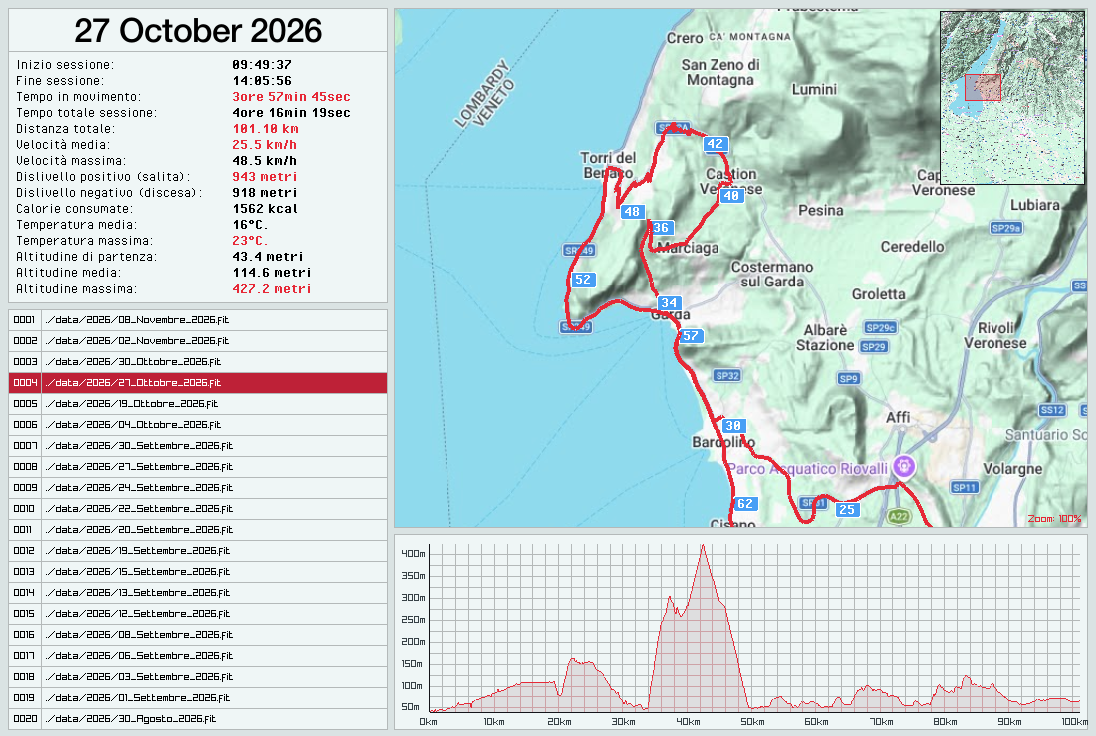
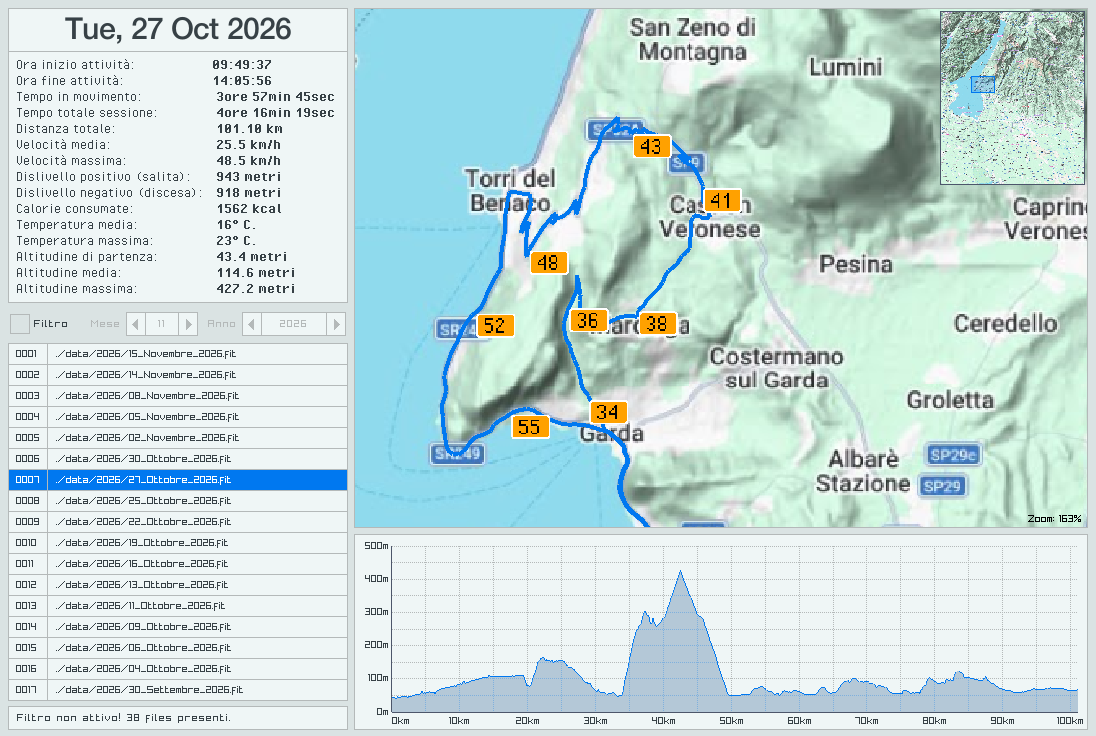
fitview v1.6.x: small changes

diff --git a/fitview/fitview.c b/fitview/fitview.c
@@ -9,7 +9,7 @@
 
 #define TOOL_NAME               "FIT Viewer"
 #define TOOL_SHORT_NAME         "fitview"
-#define TOOL_VERSION            "1.6.7"
+#define TOOL_VERSION            "1.6.8"
 
 #include <raylib.h>
 #include <raymath.h>
@@ -43,6 +43,7 @@ const int fntSize = 16;
 char tempBuffer[64];
 bool showMinimap = false;
 bool showKM=false;
+bool isDarkMode = false;
 
 float minZoomX;
 float minZoomY;
@@ -88,7 +89,6 @@ static const colorTheme darkTheme = {
     .gridBgColor = (Color){61, 68, 83, 255},
 };
 
-bool isDarkMode = true;
 colorTheme currentTheme;
 
 // Key repeat structure
@@ -266,8 +266,11 @@ int main (int argc, char *argv[])
     // usati nel filtro dei file
     time_t now = time (NULL);
     struct tm *t = localtime(&now);
-    selectedMonth = t->tm_mon + 1; // current month
-    selectedYear = t->tm_year + 1900; // current year
+    int currentMonth = t->tm_mon + 1; // current month
+    int currentYear = t->tm_year + 1900; // current year
+
+    selectedMonth = currentMonth;
+    selectedYear = currentYear;
 
     // Applica il filtro iniziale in base a bool filterEnable...
     applyDateFilter(filterEnabled, selectedYear, selectedMonth);
@@ -457,10 +460,10 @@ while (!WindowShouldClose())
                         for (int i = 0; i < numPointRec - 1; i+=40) {
                             // disegna label KM : KEY_K
                             snprintf(tempBuffer, sizeof(tempBuffer), " %.f ", puntiGps[i].dist);
-                            Vector2 labelPos = MeasureTextEx(boldFont, tempBuffer, boldFont.baseSize, 0);
+                            Vector2 labelPos = MeasureTextEx(textFont, tempBuffer, textFont.baseSize, 0);
                             DrawRectangleRounded((Rectangle){puntiPixel[i].x,puntiPixel[i].y+1 ,labelPos.x+2,labelPos.y-1},0.24f,24,WHITE);
-                            DrawRectangleRounded((Rectangle){puntiPixel[i].x +1,puntiPixel[i].y+2, labelPos.x,labelPos.y-3},0.24f,24,Fade(BLUE, 0.72f));
-                            DrawTextEx(boldFont, tempBuffer, puntiPixel[i], (float)boldFont.baseSize, 0,WHITE);
+                            DrawRectangleRounded((Rectangle){puntiPixel[i].x +1,puntiPixel[i].y+2, labelPos.x,labelPos.y-3},0.24f,24,ORANGE);
+                            DrawTextEx(textFont, tempBuffer, puntiPixel[i], (float)textFont.baseSize, 0,BLACK);
                             }
                         }
 
@@ -495,14 +498,14 @@ while (!WindowShouldClose())
 
                 // dividi la stringa con separatore ogni stringa separata diventa elemento di un array..
                 int count=0;
-                char **splitStr = TextSplit(infoTraccia.data_inizio, ',' , &count); 
+                char **splitStr = TextSplit(infoTraccia.data_inizio, '-' , &count); 
                 Vector2 headerPos = MeasureTextEx(titleFont, splitStr[0], titleFont.baseSize, 0);
                 DrawTextEx(titleFont,TextFormat("%s", splitStr[0]) ,(Vector2){datatRect.x + (datatRect.width - headerPos.x)/2, datatRect.y+2},(float)titleFont.baseSize,0,currentTheme.fgColor);
 
                 DrawTextEx(textFont,"Ora inizio attività:",(Vector2){datatRect.x+8,datatRect.y +48},(float)textFont.baseSize,0,currentTheme.fgColor);
                 DrawTextEx(boldFont,TextFormat("%s",splitStr[1]) ,(Vector2){datatRect.x + 204, datatRect.y+48},(float)boldFont.baseSize,0,currentTheme.fgColor);
 
-                splitStr = TextSplit(infoTraccia.data_fine, ',' , &count); 
+                splitStr = TextSplit(infoTraccia.data_fine, '-' , &count); 
                 DrawTextEx(textFont,"Ora fine attività:",(Vector2){datatRect.x+8,datatRect.y + 64},(float)textFont.baseSize,0,currentTheme.fgColor);
                 DrawTextEx(boldFont,TextFormat("%s",splitStr[1]) ,(Vector2){datatRect.x + 204, datatRect.y + 64},(float)boldFont.baseSize,0,currentTheme.fgColor);
 
@@ -571,7 +574,11 @@ while (!WindowShouldClose())
 
             // la ricerca va fatta una sola volta
             GuiCheckBox((Rectangle){ 10, 314, 20, 20 }, "Filtro ", &filterEnabled);
-            if (!filterEnabled) GuiDisable();
+            if (!filterEnabled) {
+                 selectedMonth = currentMonth;
+                 selectedYear = currentYear;
+                 GuiDisable();
+            }
 
 
             GuiSpinner((Rectangle){ 126, 312, 72, 24 }, "Mese ", &selectedMonth, 0, 12, 0);
@@ -775,7 +782,7 @@ Vector2 GpsToPixel(double lat, double lon, Texture2D tex) {
     // Bounding box geografico (WGS84 / EPSG:4326)
     const double minLon = 10.46546111; // Ovest (Left)
     const double maxLon = 11.36574722; // Est (Right)
-    const double minLat = 45.15918611; // Sud (Bottom)// se la traccia e' un pò sfalsata aumenta di poco questo valore tipo 45.1571xx >> 45.1591xx
+    const double minLat = 45.15988611; // Sud (Bottom)// se la traccia e' un pò sfalsata aumenta di poco questo valore tipo 45.1571xx >> 45.1591xx
     const double maxLat = 45.91895000; // Nord (Top) // se la traccia e' un pò sfalsata aumenta di poco questo valore tipo 45.9179xx >> 45.9189xx
 
     double normX = (lon - minLon) / (maxLon - minLon);
@@ -802,9 +809,8 @@ void ConvertFitTimestamp(FIT_UINT32 fit_timestamp, char* output_str, size_t max_
     
     // Usa gmtime se vuoi l'orario UTC, oppure localtime per l'orario del tuo computer
     struct tm* time_info = localtime(&unix_time);
-    strftime(output_str, max_size, "%A %d %b %Y, %H:%M:%S", time_info);
+    strftime(output_str, max_size, "%a, %d %b %Y-%H:%M:%S", time_info);
 }
-
 
 int decodeFit(char* fileName) {
 
